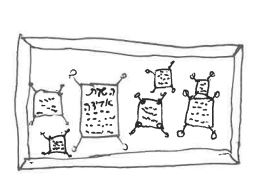
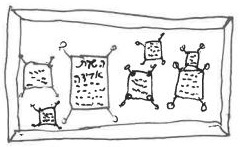
[104] final

diff --git a/src/haparasha/Haparasha.tsx b/src/haparasha/Haparasha.tsx
@@ -12,35 +12,38 @@ import Magic from "./Magic";
 import Sipor from "./Sipor";
 import Parasha from "./Parasha";
 import OtherLines from "./OtherLines";
+import PageImage from "./PageImage";
 
 const BodyContainer = styled.div`
   display: grid;
   height: 2800px;
   width: 1200px;
   grid-template-rows: 220px //10
-    900px //20
+    860px //20
     250px //30
     380px //35
-    150px //40
+    230px //40
     120px //50
-    310px //60
+    270px //60
     340px //70
-    250px //80
+    300px //80
     250px //85
-    300px //90
+    150px //90
+    150px //90
     340px; //100
   grid-template-columns: 670px 670px;
   grid-template-areas: "Title Title" //10
     "Vort Vort  " //20
     "   Tora Gmara     " //30
     "   Hizok Gmara     " //35
-    "   Beher  Briha     " //40
+    "  Hidod     Magic   " //40
     "PageTitle  PageTitle " //50
     "        Brahot   Bad    " //60
     "        Brahot  Mahane     " //70
-    "       Brahot  Yahe  " //80
-    "       Parasha  Magic   " //85
-    "  Hidod Sipor     " //90
+    "       Brahot   Paint " //80
+    "       Parasha  Yahe    " //85
+    "  Sipor  Briha    " //90
+    "  Sipor Beher     " //90
     " Todot Todot   "; //100
   font-family: "Bona Nova", serif;
   row-gap: 8px;
@@ -68,6 +71,7 @@ const Haparasha = () => {
       <OtherLines gridArea="Beher" num={4} listStyle="none" />
       <OtherLines gridArea="Hidod" num={5} listStyle="none" />
       <OtherLines gridArea="Tora" num={6} listStyle="none" />
+      <PageImage gridArea="Paint" />
     </BodyContainer>
   );
 };

diff --git a/src/haparasha/PageImage.tsx b/src/haparasha/PageImage.tsx
@@ -1,0 +1,41 @@
+import React from "react";
+import styled from "styled-components";
+import { BasicBox, TitleDiv } from "../Common";
+import l10n from "./l10n.json";
+
+const OtherBox = styled(BasicBox)`
+  position: relative;
+  padding: 16px;
+  align-items: center;
+`;
+
+const ImageContainer = styled.div`
+  display: flex;
+  width: 80%;
+  height: 80%;
+`;
+
+const TitleBox = styled.div`
+  display: flex;
+`;
+
+const ImageBox = styled.img`
+  width: 100%;
+  height: 100%;
+  opacity: 1;
+`;
+
+const PageImage: React.FC<{ gridArea: string }> = ({ gridArea }) => {
+  return (
+    <OtherBox dir="RTL" style={{ gridArea: gridArea }}>
+      <TitleBox>
+        <TitleDiv>{l10n.title.paint}</TitleDiv>
+      </TitleBox>
+      <ImageContainer>
+        <ImageBox src={require("./images/ki-teze.JPG")} alt="" />
+      </ImageContainer>
+    </OtherBox>
+  );
+};
+
+export default PageImage;
